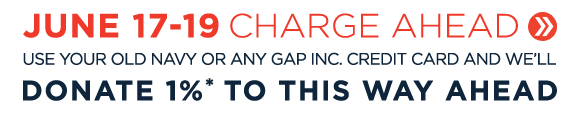
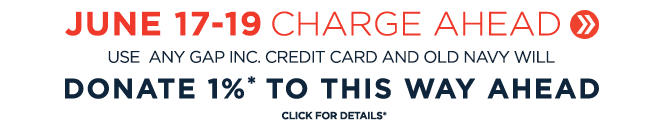
add changes

diff --git a/index.html b/index.html
@@ -84,12 +84,14 @@
 
 <!-- <img src="imgs/pop-up-footer.png"></img> -->
 <img class="promo-footer" src="imgs/promo-footer.png"></img>
+<img class="promo-footer-pop-up img-responsive" style="display:none;" src="imgs/legal-pop-up-footer.png"></img>
 
 </div>
 
 <div class="footer navbar-fixed-bottom charge-ahead-footer-mobile">
 <a class='promo-footer-x'><p class=" promo-close-footer-2 ">X</p></a>
-<img class="promo-footer" src="imgs/promo-footer-mobile.png"></img>
+<img class="promo-footer-mobile img-responsive" src="imgs/promo-footer-mobile.png"></img>
+<img class="promo-footer-pop-up-2 img-responsive" style="display:none;" src="imgs/legal-pop-up-footer.png"></img>
 </div>
 
 
@@ -754,11 +756,11 @@ $(window).on('resize scroll', (function(){
      $('ul.nav-group, ul.nav-group-mobile').fadeIn(200);
      $('img.camp-old-navy-logo').fadeOut(200);
      $('div.promo-cloud-1').fadeOut(200);
-     $('img.promo-footer, a.promo-footer-x').fadeOut(200);
+     $('img.promo-footer, img.promo-footer-mobile, a.promo-footer-x, img.promo-footer-pop-up-2, img.promo-footer-pop-up').fadeOut(200);
 }
 
   if ($(document).scrollTop() > 620) {  // if the scroll is more than 620 
-     $('img.promo-footer, a.promo-footer-x').fadeOut(200);
+     $('img.promo-footer, img.promo-footer-mobile, a.promo-footer-x, img.promo-footer-pop-up-2, img.promo-footer-pop-up').fadeOut(200);
 }
 
 
@@ -776,7 +778,7 @@ else if ($(document).scrollTop() < 620) {    // if the scroll is less than 620
      $('ul.nav-group, ul.nav-group-mobile').fadeIn(200);
      $('img.camp-old-navy-logo').fadeOut(200);
      $('div.promo-cloud-1').fadeOut(200);
-     $('img.promo-footer, a.promo-footer-x').fadeIn(200);
+     $('img.promo-footer, img.promo-footer-mobile, a.promo-footer-x').fadeIn(200);
 }  
 
 
@@ -873,6 +875,32 @@ else if ($(document).scrollTop() < 620) {    // if the scroll is less than 620
      $("hide-and-expand-TWA").fadeOut(200);
    });
   });
+
+
+    $(function() {
+    $('img.promo-footer').click(function() {
+     $("img.promo-footer-pop-up").show();
+   });
+  });
+
+  //       $(function() {
+  //   $('img.promo-footer').click(function() {
+  //    $("img.promo-footer-pop-up").hide();
+  //  });
+  // });
+
+        $(function() {
+    $('.promo-footer-mobile').click(function() {
+     $("img.promo-footer-pop-up-2").show();
+   });
+  });
+
+
+  //       $(function() {
+  //   $('.promo-footer-mobile').click(function() {
+  //    $(".promo-footer-pop-up-2").hide();
+  //  });
+  // });
 
 
   $(function() {

diff --git a/campOldNavy.css b/campOldNavy.css
@@ -642,7 +642,7 @@ p.marshall-story-text{
 
 a.shop-now{
   position: absolute;
-  margin-top: 295px;
+  margin-top: 300px;
   margin-left: 230px;
   font-family: Gotham-Bold;
   color: black;
@@ -651,13 +651,14 @@ a.shop-now{
 }
 
 a.legal{
-  position: absolute;
-  margin-top: 320px;
-  margin-left: 245px;
-  font-family: Gotham-Bold;
-  color: black;
-  font-size: 13px;
+    position: absolute;
+    margin-top: 320px;
+    margin-left: 250px;
+    font-family: Gotham-Bold;
+    color: black;
+    font-size: 12px;
 }
+
 
 
 .charge-ahead-footer{
@@ -1044,12 +1045,12 @@ img.shop-old-navy{
   margin-left: 238px;
   font-family: Gotham-Bold;
   color: black;
-  font-size: 13px;
+  font-size: 12px;
 }
 
 a.shop-now{
   position: absolute;
-  margin-top: 285px;
+  margin-top: 290px;
   margin-left: 220px;
   font-family: Gotham-Bold;
   color: black;
@@ -1545,7 +1546,9 @@ margin-top:30px;
   }
 
   
-
+.promo-footer-pop-up-2{    
+  margin-bottom: -3px;
+  margin-top: -3px;}
 
   .this-way-ahead-nav, .brain-gain-nav, .kids-safety-nav{
     font-size:13px;
